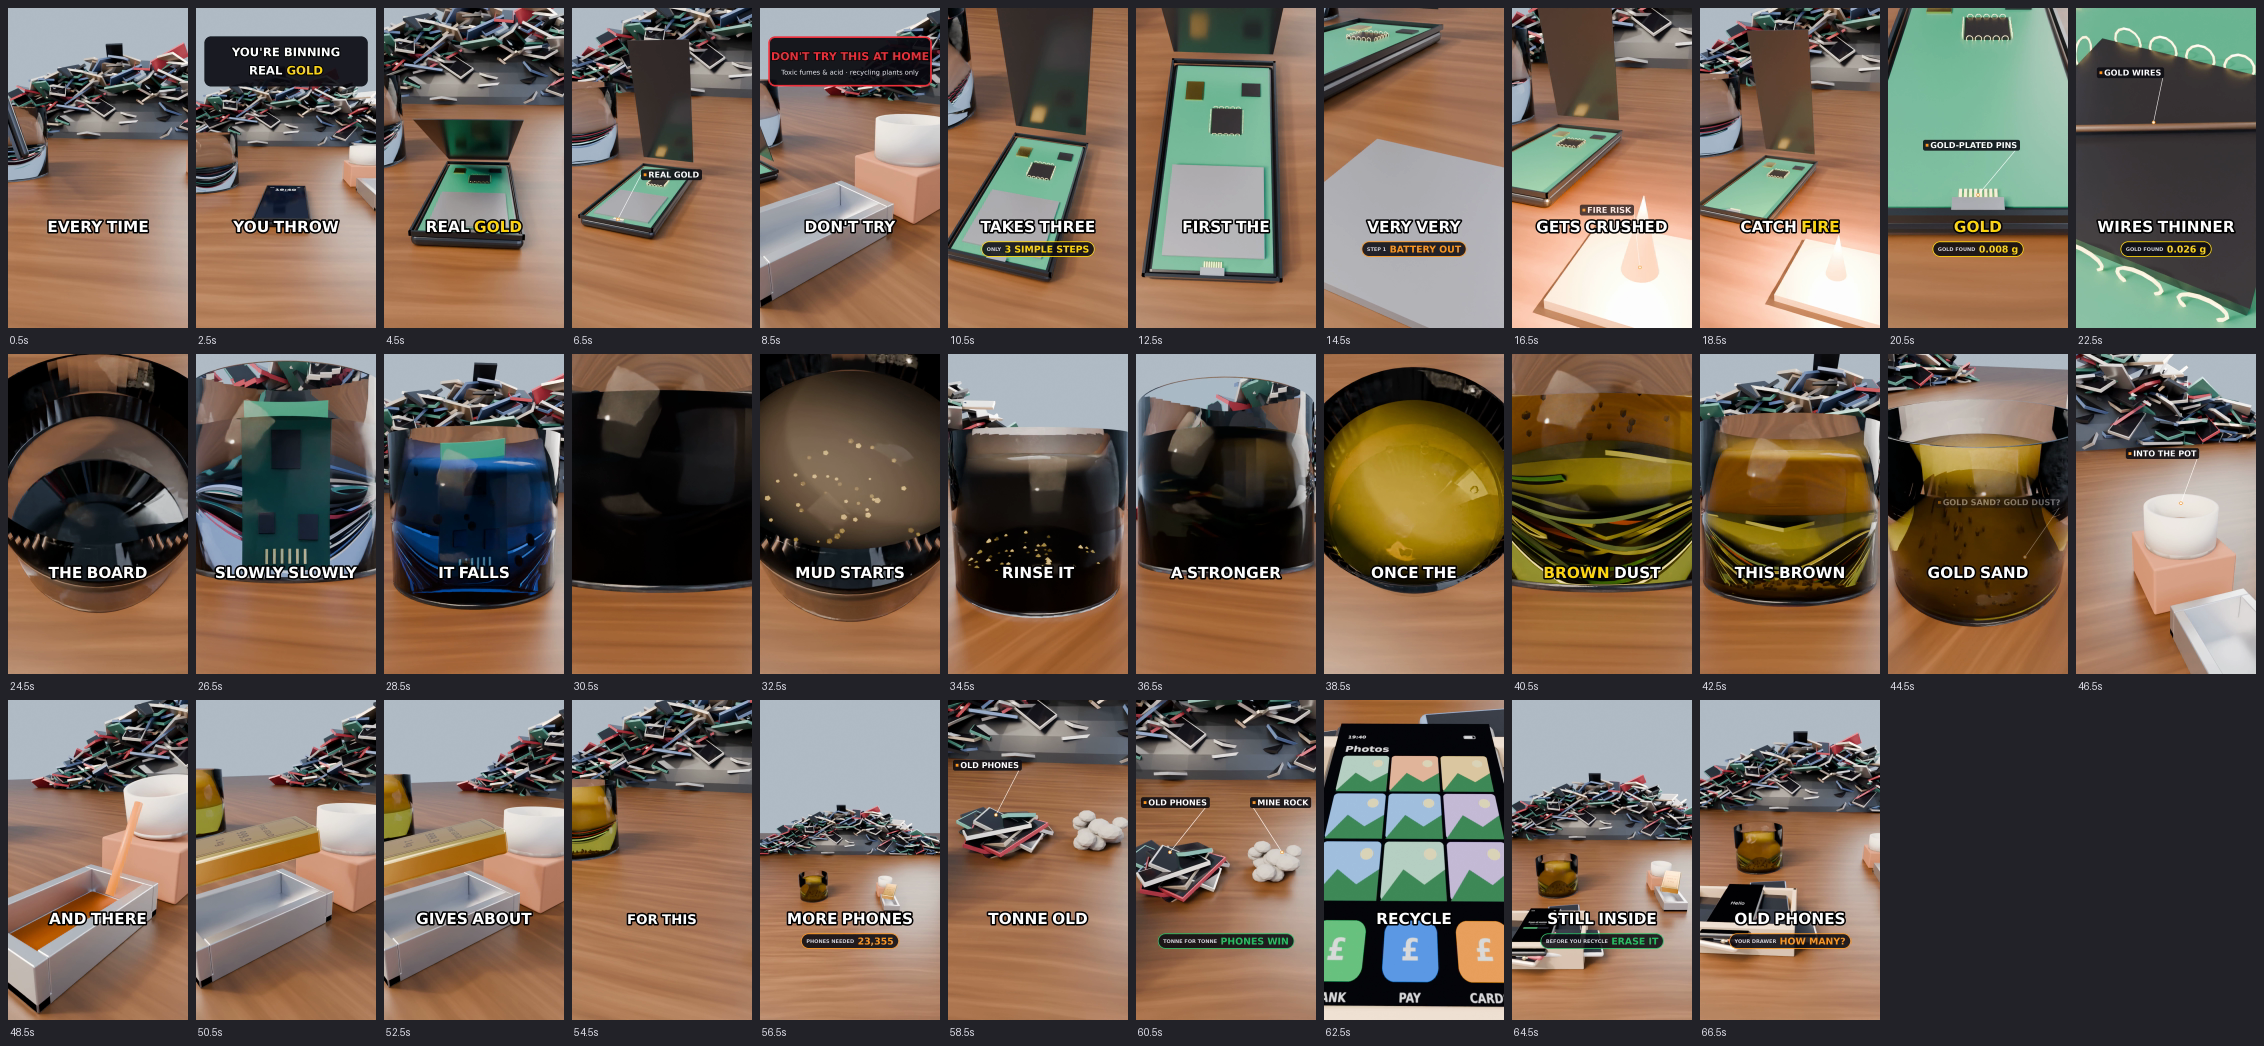
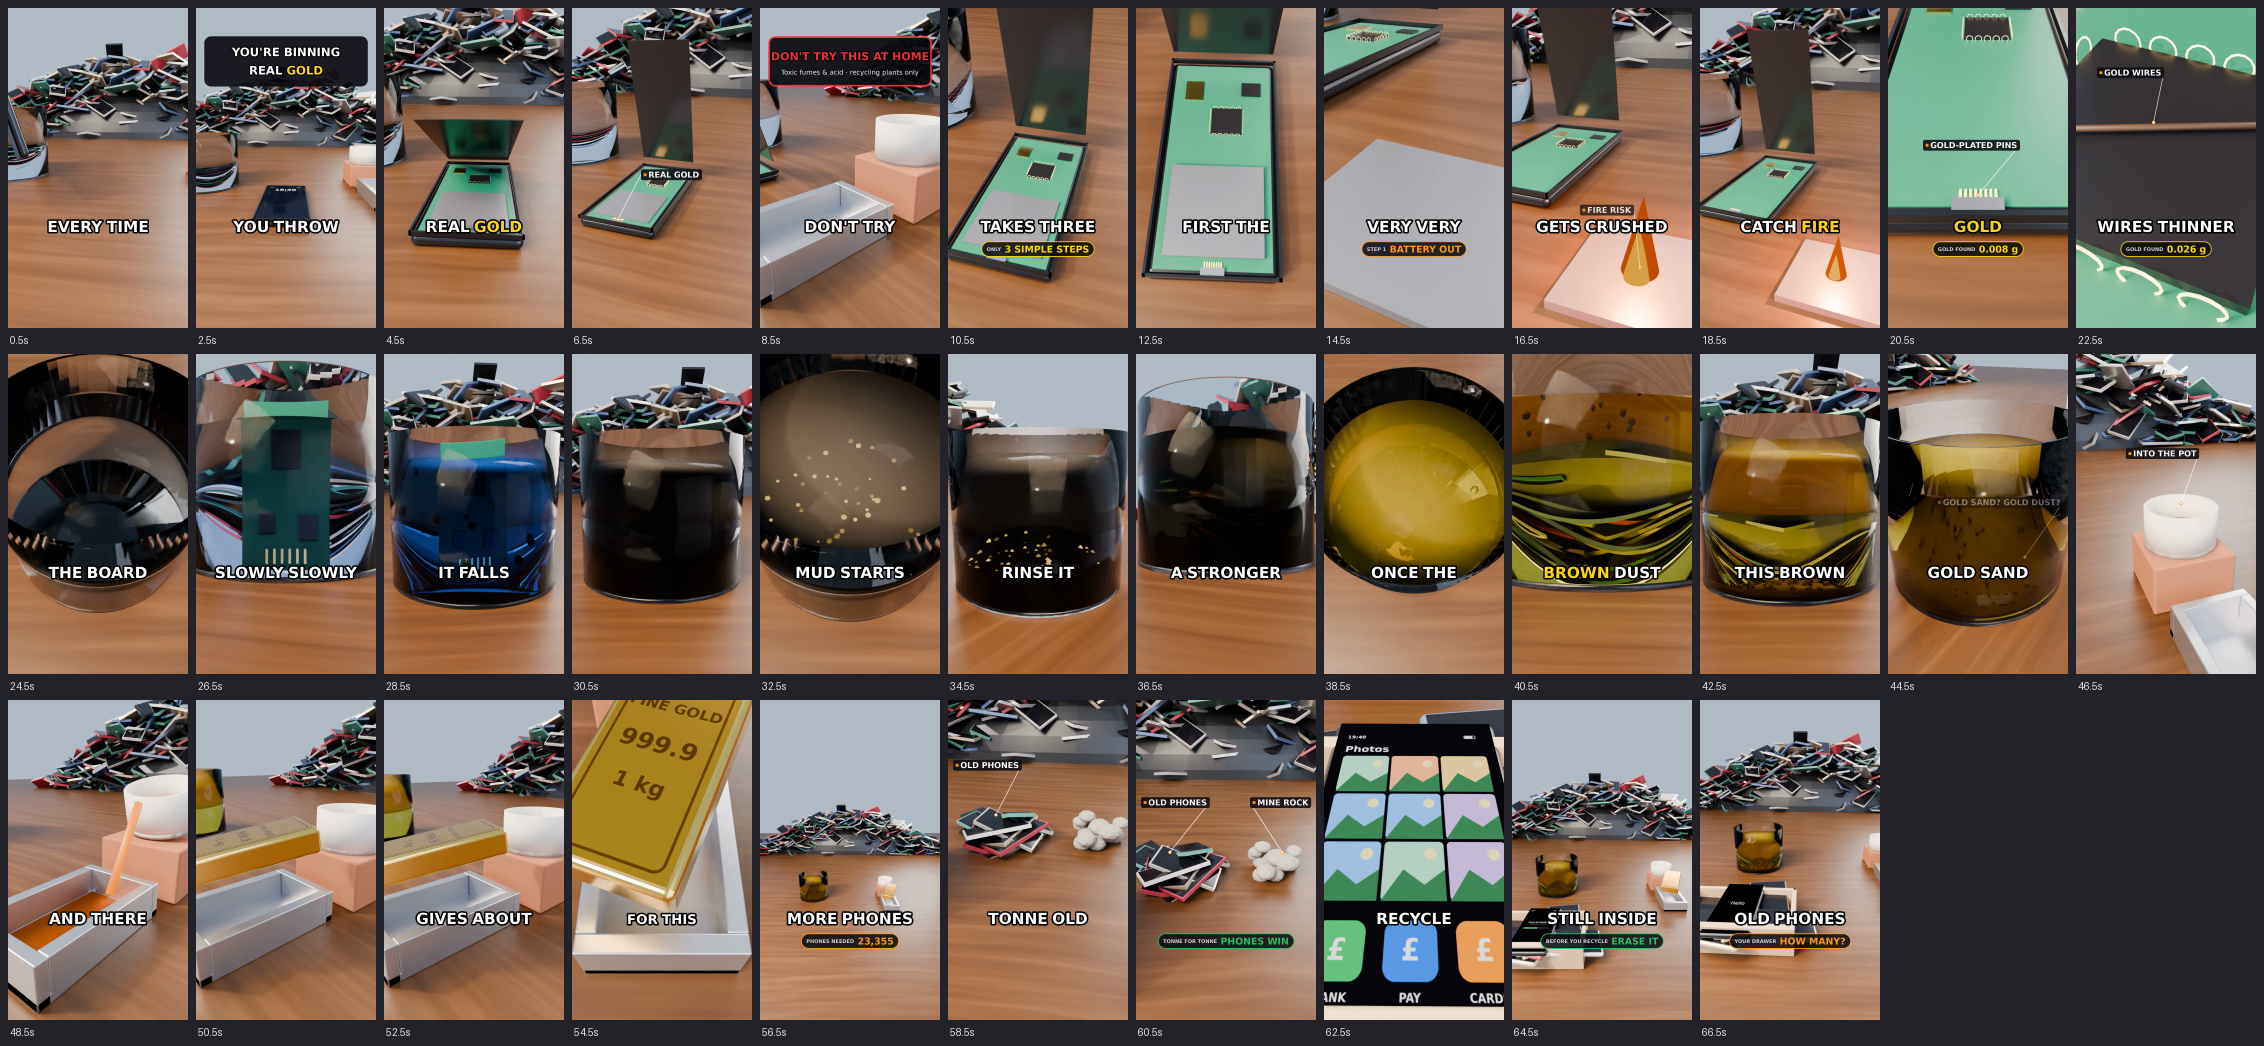
FIX #16: weak spots fixed and re-assembled; QC passes; phone-size sheet updated
Claude-Session: https://claude.ai/code/session_01RDBrbbL9mDESBUnbCBjE39

Changed region(s): [[0.2473, 0.3365, 0.3401, 0.979], [0.6493, 0.0306, 0.8348, 0.3365], [0.6802, 0.0, 0.7111, 0.1224]]

diff --git a/phoneverse_fix16_studio/README.md b/phoneverse_fix16_studio/README.md
@@ -4,7 +4,8 @@
 Status: **rendered 22 Nov 2026; QC passes on both finals** (69.00 s, -14.1 LUFS, TP -2.0/-2.5 dB, LRA 3.5, 39 cuts, longest shot 3.29 s, 0 black/frozen).
 Finals (gitignored): ../phoneverse_3d_studio/final/phoneverse_fix16_mix_with_pad.mp4 (post this one) and _mix_voice_fx.mp4. Phone-size sheet: ../phoneverse_3d_studio/docs/phone_size_check_fix16.png.
 Character beats are **desk stand-ins** (no yard set or Rocketbox clips yet). Molten gold was re-lit mid-render (AgX turned it peach): PV_MOLT=1.0,0.25,0.0.
-Known weak spots at phone size: battery flame reads pale; 30.5 s tub frame is almost all black between lines; 54.5 s ("For this bar?") the bar is small in frame.
+Weak spots fixed 22 Nov (187 frames re-rendered): emission-only red-orange flame with a yellow core on the battery (16-19 s); tub front view at 30.4 s; crucible seen from above while it heats (g_cru_top, 46.7 s); push-in on the bar stamp for "For this bar?" (g_bar_push, 54.5 s). 40 cuts, longest shot 3.29 s.
+Note: build_fix16.sh render and compose3d.py both skip existing frames. Delete build/frames AND build/out for any range you re-render.
 **Take 4: 69.02 s, 185 words, speech pace 3.00 words/s, tail 0.32 s.** Every make_voice limit passes. Raw voice is -21.2 LUFS; the mix takes it to -14.
 Kokoro af_heart (voice B), the same model as #15: re-voicing #15 lines 1-3 matched its recorded durations exactly.
 
